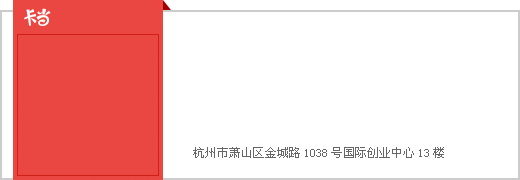
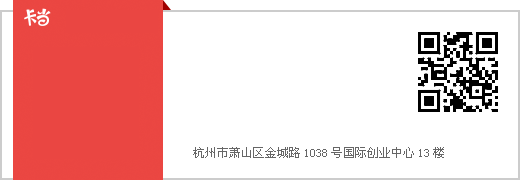
update

Changed region(s): [[0.8, 0.1667, 0.9846, 0.6389], [0.0308, 0.9722, 0.3077, 1.0], [0.0308, 0.1667, 0.3077, 0.1944]]

diff --git a/css/index.css b/css/index.css
@@ -30,12 +30,16 @@
     display: none;
 }
 
+.card,
+.help {
+    font-family: '\5fae\8f6f\96c5\9ed1', "Microsoft YaHei", Tahoma, san-serif;
+}
+
 .card {
     position: relative;
     margin: 15px auto;
     width: 520px;
     height: 180px;
-    font-family: '\5fae\8f6f\96c5\9ed1', "Microsoft YaHei", Tahoma, san-serif;
 }
 
 .card .text-box {
@@ -111,16 +115,22 @@
 .card .head-area .fileinput-button {
     position: absolute;
     left: 5px;
-    bottom: 10px;
-    margin: 0 auto;
-    padding: 2px 3px;
+    bottom: 5px;
     width: 140px;
+    height: 140px;
     font-size: 12px;
+    background-color: transparent;
+    border: 0;
+}
+
+.card .head-area .fileinput-button:hover {
+    background-color: transparent;
+    border: 0;
 }
 
 .card .head-area .user-info {
     position: absolute;
-    left: 62px;
+    left: 58px;
     top: 6px;
 }
 
@@ -158,4 +168,58 @@
 .result {
     padding-top: 10px;
     text-align: center;
+}
+
+/* Help */
+.help {
+    position: fixed;
+    right: 10px;
+    top: 10px;
+    padding: 5px;
+    width: 54px;
+    height: 52px;
+    -webkit-border-radius: 4px;
+    -moz-border-radius: 4px;
+    border-radius: 4px;
+    border: 1px solid #ccc;
+    overflow: hidden;
+    -webkit-transition: width 0.2s ease-out, height 0.2s ease-out;
+    -moz-transition: width 0.2s ease-out, height 0.2s ease-out;
+    -o-transition: width 0.2s ease-out, height 0.2s ease-out;
+    -ms-transition: width 0.2s ease-out, height 0.2s ease-out;
+    transition: width 0.2s ease-out, height 0.2s ease-out;
+    background-color: #fff;
+}
+
+.help:hover {
+    width: 530px;
+    height: auto;
+}
+
+.help .help-title,
+.help .help-content {
+    width: 520px;
+    visibility: hidden;
+}
+
+.help:hover .help-title,
+.help:hover .help-content {
+    visibility: visible;
+}
+
+.help .help-title {
+    margin-top: 5px;
+}
+
+.help .help-icon {
+    position: absolute;
+    right: 10px;
+    top: 10px;
+    font-size: 32px;
+    color: #f00;
+    cursor: pointer;
+}
+
+.help:hover .help-icon {
+    display: none;
 }

diff --git a/js/index.js b/js/index.js
@@ -45,6 +45,6 @@
         //         $("body").append('<img src="' + data.card["card_url"] + '">');
         //     }
         // });
-        $("#Result").append('<img src="' + api + '">');
+        $("#Result").html('<img src="' + api + '">');
     });
 })(jQuery);

diff --git a/index.php b/index.php
@@ -43,13 +43,13 @@
                 <input type="hidden" name="userpic" id="UserPic" value="./imgs/default.png">
                 <div class="head-pic" id="HeadPic" style="background-image: url(./imgs/default.png);"></div>
                 <span class="btn btn-success fileinput-button">
-                    <i class="glyphicon glyphicon-plus"></i>
-                    <span>上传头像</span>
+                    <!-- <i class="glyphicon glyphicon-plus"></i>
+                    <span>上传头像</span> -->
                     <input id="fileupload" type="file" name="files">
                 </span>
                 <div class="user-info">
-                    <input type="text" name="group" id="UserGroup" class="group mini-text" placeholder="组">&nbsp;
-                    <input type="text" name="tid" id="UserId" class="mini-text" placeholder="工号">
+                    <input type="text" name="group" id="UserGroup" class="group mini-text" placeholder="部门">&nbsp;
+                    <input type="text" name="tid" id="UserId" class="mini-text" placeholder="组">
                 </div>
             </div>
         </form>
@@ -64,6 +64,17 @@
         <input type="button" id="CreateCard" value="生成名片" class="btn btn-primary">
     </div>
     <div class="result" id="Result"></div>
+    <div class="help">
+        <h3 class="help-title">使用说明</h3>
+        <div class="help-content">
+            &nbsp;&nbsp;&nbsp;&nbsp;1、头像规格（140x140），大图等比压缩。<br>
+            &nbsp;&nbsp;&nbsp;&nbsp;2、图片格式（png/jpg/gif），png24最佳。<br>
+            &nbsp;&nbsp;&nbsp;&nbsp;3、点击“生成名片”后，“右键”—“图片另存为...”，即得到个人名片。<br>
+            &nbsp;&nbsp;&nbsp;&nbsp;4、生成案例，请对照填写相关信息
+            <img src="./imgs/myCard.png" alt="" style="margin-top: 5px;">
+        </div>
+        <span class="glyphicon glyphicon-hand-up help-icon"></span>
+    </div>
 <script src="./js/jquery-1.11.0.min.js"></script>
 <script src="./js/jquery.ui.widget.js"></script>
 <script src="./js/jquery.iframe-transport.js"></script>

diff --git a/createCard.php b/createCard.php
@@ -89,7 +89,7 @@
     $sontti = "./fonts/simsun.ttc";
 
     imagecopy($tplsource, $headsource, 18 + (140 - $headsize[0]) / 2, 35 + (140 - $headsize[1]) / 2, 0, 0, $headsize[0], $headsize[1]);
-    imagettftext($tplsource, 10, 0, 85, 23, $white, $yahei, $group . "  " . $tid);
+    imagettftext($tplsource, 10, 0, 65, 23, $white, $yahei, $group . "  " . $tid);
     imagettftext($tplsource, 13, 0, 190, 52, $red, $yahei, $nick);
     imagettftext($tplsource, 10, 0, 245, 52, $dark, $yahei, $name);
     imagettftext($tplsource, 10, 0, 295, 52, $gray, $yahei, $post);
